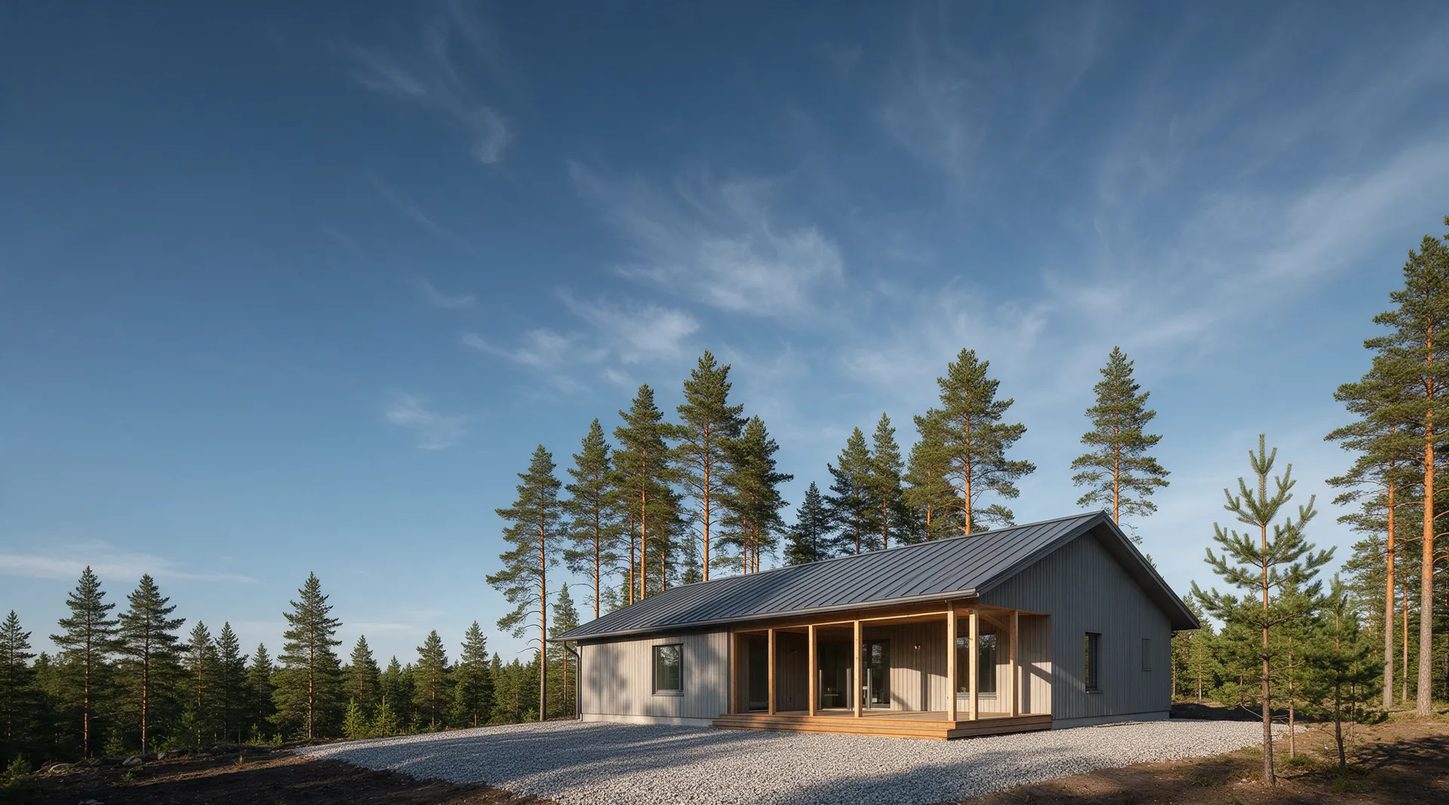
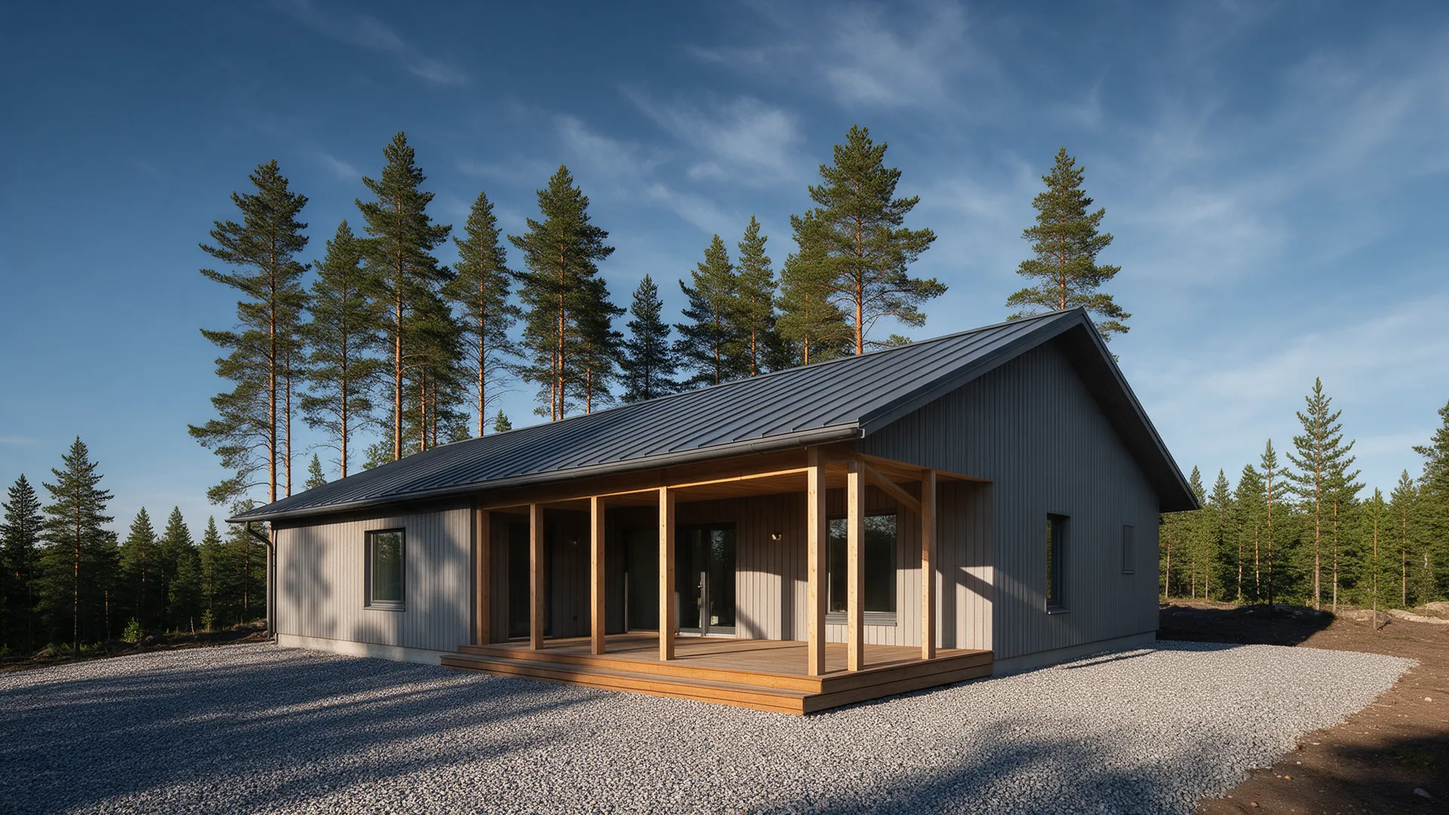
Портфолио: дом крупно наверху, новый каркас, акт приёмки вместо Айзека, метки убраны

diff --git a/index.html b/index.html
@@ -5,7 +5,7 @@
 <meta name="robots" content="noindex, nofollow" data-publish>
 <meta name="viewport" content="width=device-width, initial-scale=1, viewport-fit=cover">
 <title>Свой дом · частные дома по этапам</title>
-<meta name="description" content="Строительство частных домов в {{город}}: пять этапов, смета в договоре, оплата после приёмки каждого этапа по акту.">
+<meta name="description" content="Строительство частных домов в Петербурге и Ленобласти: пять этапов, смета в договоре, оплата после приёмки каждого этапа по акту.">
 <link rel="preconnect" href="https://fonts.googleapis.com">
 <link rel="preconnect" href="https://fonts.gstatic.com" crossorigin>
 <link href="https://fonts.googleapis.com/css2?family=Geologica:wght@600;700&family=IBM+Plex+Sans:wght@400;500;600&display=swap" rel="stylesheet">
@@ -150,7 +150,7 @@
   /* окантовка текста титула цветом фона: заголовок читается и поверх светлого тумана на фото */
   .title__body .v-label, .title__body h1, .title__body .v-lede { text-shadow: 0 0 1px rgb(27 31 35 / .9), 0 0 10px rgb(27 31 35 / .75), 0 0 24px rgb(27 31 35 / .55); }
   /* короткий телефон: фото выше, чтобы меньше заходило под заголовок */
-  @media (max-width: 600px) and (max-height: 760px) { .cover__stack { top: -26svh; } }
+  @media (max-width: 600px) and (max-height: 760px) { .cover__stack { top: -20svh; } }
   @media (max-width: 860px) { .title__body .v-label { display: inline-block; background: rgb(27 31 35 / .9); padding: .2em .5em; margin-left: -.5em; border-radius: var(--v-radius); } }
   /* ноутбук: экран низкий, титул ужимаем, чтобы кнопка и цена остались над сгибом */
   @media (min-width: 861px) and (max-height: 840px) {
@@ -163,6 +163,15 @@
     .cover .title { padding-block: var(--v-4) var(--v-3); }
     .title__head { padding-bottom: var(--v-3); }
     .title__foot { padding-top: var(--v-3); }
+  }
+  /* компьютер, кадр «дом крупно»: заголовок вверху, в небе, кнопка внизу, на щебне; дом посередине открыт */
+  @media (min-width: 861px) {
+    .title__body { flex: 1; display: flex; flex-direction: column; max-width: none; }
+    .title__body h1 { max-width: 20ch; font-size: clamp(2.2rem, 1rem + 3.2vw, 4rem); }
+    .title__cta { margin-top: auto; }
+    .cover__scrim { background:
+      linear-gradient(to bottom, rgb(27 31 35 / .72) 0%, rgb(27 31 35 / .35) 30%, rgb(27 31 35 / 0) 46%),
+      linear-gradient(to top, rgb(27 31 35 / .55) 0%, rgb(27 31 35 / 0) 26%); }
   }
 
   /* ---- оглавление: кинолента этапов -------------------------------------------- */
@@ -216,7 +225,7 @@
   .spread__fig .fig img { width: 100%; height: 100%; object-fit: cover; }
   .spread__fig figcaption { display: grid; grid-template-columns: auto 1fr; gap: var(--v-3); padding-top: var(--v-3); font-size: var(--v-t-sm); color: var(--v-ink-soft); max-width: 52ch; }
   .spread__fig figcaption b { font-family: var(--v-font-display); font-weight: 600; color: var(--v-accent); font-variant-numeric: tabular-nums; }
-  /* «Сдан!»: фото приёмщика под домом, рядом крупная отметка и подпись */
+  /* «Сдан!»: планшет с актом приёмки под домом, рядом крупная отметка и подпись */
   .spread__fig figcaption.accepted { grid-template-columns: minmax(0, 34%) 1fr; align-items: center; gap: var(--v-4); max-width: none; padding-top: var(--v-4); }
   .accepted img { display: block; width: 100%; height: auto; aspect-ratio: 1; object-fit: cover; border-radius: var(--v-radius); outline: 1px solid var(--v-hair-strong); outline-offset: -1px; }
   .accepted__text { display: grid; gap: var(--v-2); }
@@ -402,11 +411,11 @@
     <span class="folio__dot" style="top:50%"><span><b>03</b>Кровля</span></span>
     <span class="folio__dot" style="top:75%"><span><b>04</b>Отделка</span></span>
     <span class="folio__dot" style="top:100%"><span><b>05</b>Сдача по акту</span></span>
-    <a class="folio__cta" href="{{ссылка-расчёта}}">Рассчитать смету</a>
+    <a class="folio__cta" href="#raschet">Рассчитать смету</a>
   </nav>
   <div class="folio-m" id="folioM">
     <span id="folioMText" aria-hidden="true"><b>01</b> · Фундамент</span>
-    <a href="{{ссылка-расчёта}}">Рассчитать смету</a>
+    <a href="#raschet">Рассчитать смету</a>
     <span class="folio-m__bar" id="folioMBar" aria-hidden="true"></span>
   </div>
 
@@ -417,8 +426,8 @@
     <section class="cover" id="cover" data-v-act="pin" data-v-span="2.6" aria-label="Титульный лист">
       <div data-v-stage>
         <div class="cover__stack">
-          <img class="cover__img" src="assets/stage-frame.webp" alt="Каркас частного дома на фундаменте и щебёночной подушке, участок среди сосен" width="1920" height="1067" fetchpriority="high" decoding="async">
-          <img class="cover__img" src="assets/cover.webp" alt="Тот же участок с тем же ракурсом: готовый дом с террасой" width="1920" height="1067" decoding="async" data-v-reveal="left" data-v-reveal-at="0.15 0.55">
+          <img class="cover__img" src="assets/stage-frame.webp" alt="Каркас частного дома на фундаменте и щебёночной подушке, участок среди сосен" width="1920" height="1080" fetchpriority="high" decoding="async">
+          <img class="cover__img" src="assets/cover.webp" alt="Тот же участок с тем же ракурсом: готовый дом с террасой" width="1920" height="1080" decoding="async" data-v-reveal="left" data-v-reveal-at="0.15 0.55">
         </div>
         <div class="cover__scrim" aria-hidden="true"></div>
         <div class="v-wrap title">
@@ -428,16 +437,16 @@
           </div>
           <div class="title__body" data-v-cue="0 1 0 0">
             <span class="v-label">Частные дома · по этапам</span>
-            <h1 class="v-display">Дома под ключ в {{город}} – смета в договоре</h1>
+            <h1 class="v-display">Дома под ключ в СПб и Ленобласти – смета в договоре</h1>
             <p class="v-lede">Под ключ – это пять этапов от фундамента до сдачи, по каждому акт и фотоотчёт. <b>Смета фиксируется в договоре</b>, оплата этапа после приёмки.</p>
             <div class="title__cta">
-              <!-- {{ссылка-расчёта}}: ссылка на форму расчёта (в Тильде #popup:smeta) или мессенджер. Одна и та же во всех кнопках -->
-              <a class="v-btn" href="{{ссылка-расчёта}}">Рассчитать смету</a>
+              <!-- #raschet: ссылка на форму расчёта (в Тильде #popup:smeta) или мессенджер. Одна и та же во всех кнопках -->
+              <a class="v-btn" href="#raschet">Рассчитать смету</a>
               <p class="title__price">Цена за м² по типовому проекту – <b>уточнить</b>. <span>Точная сумма в смете, ответ в течение рабочего дня.</span></p>
             </div>
           </div>
           <div class="title__foot">
-            <span><b>0.1</b>Стройка по этапам · {{город}}</span>
+            <span><b>0.1</b>Стройка по этапам · Петербург и Ленобласть</span>
             <p class="cover__state">
               <span class="is-on"><i>Один ракурс</i>Каркас → дом</span>
             </p>
@@ -620,10 +629,10 @@
         <div class="spread spread--flip">
           <figure class="spread__fig" data-v-reveal="right" data-v-reveal-at="0.1 0.42">
             <!-- заменить на фото реального объекта в день сдачи -->
-            <div class="fig"><div data-v-parallax="0.4"><img src="assets/house.webp" alt="Готовый каркасный дом с террасой на щебёночной подушке среди сосен" width="1600" height="889" loading="lazy" decoding="async"></div></div>
-            <!-- под домом: приёмщик показывает «принято» -->
+            <div class="fig"><div data-v-parallax="0.4"><img src="assets/house-far.webp" alt="Готовый каркасный дом с террасой на щебёночной подушке среди сосен" width="1600" height="900" loading="lazy" decoding="async"></div></div>
+            <!-- под домом: акт приёмки, все этапы отмечены «принято» -->
             <figcaption class="accepted">
-              <img src="assets/isaac.webp" alt="Приёмщик в броне показывает большой палец: дом сдан" width="720" height="720" loading="lazy" decoding="async">
+              <img src="assets/akt.webp" alt="Планшет с актом приёмки: полы, окна, водопровод, кровля – принято" width="720" height="720" loading="lazy" decoding="async">
               <span class="accepted__text"><strong>Сдан!</strong><span><b>5.1</b> Дом с террасой в день сдачи. Финальный обход, папка документов, ключи.</span></span>
             </figcaption>
           </figure>
@@ -639,30 +648,16 @@
           </div>
         </div>
 
-        <!-- Построено: слоты под фото реальных объектов. Вместо .fig--slot вставить
-             <div class="fig"><img src="{{объект 1 фото}}" alt="{{объект 1}}" width="1200" height="900" loading="lazy"></div>
-             Подпись {{объект 1}}: тип и размер, район, месяц и год сдачи, срок по договору. Например: «Дом 8×9 с террасой · сдан в июле · 74 дня по договору» -->
-        <div class="built" data-v-in data-v-stagger="80">
-          <div class="built__head">
-            <span class="v-label">Построено</span>
-            <p>Настоящие объекты, без рендеров: тип и размер, когда сдали и сколько дней это заняло по договору.</p>
-          </div>
-          <ul>
-            <li><figure><div class="fig fig--slot" role="img" aria-label="{{объект 1 фото}}"><span>{{объект 1 фото}}</span></div><figcaption><b>5.2</b><span>{{объект 1}}</span></figcaption></figure></li>
-            <li><figure><div class="fig fig--slot" role="img" aria-label="{{объект 2 фото}}"><span>{{объект 2 фото}}</span></div><figcaption><b>5.3</b><span>{{объект 2}}</span></figcaption></figure></li>
-            <li><figure><div class="fig fig--slot" role="img" aria-label="{{объект 3 фото}}"><span>{{объект 3 фото}}</span></div><figcaption><b>5.4</b><span>{{объект 3}}</span></figcaption></figure></li>
-          </ul>
-        </div>
       </div>
     </section>
 
     <!-- ПОВТОР КНОПКИ -->
     <section class="midcta" data-v-act="flow" aria-label="Рассчитать смету">
       <div class="v-wrap" data-v-in data-v-stagger="70">
-        <p>Пять этапов прочитали. Дальше отзывы и состав сметы, но считать можно уже сейчас: цена за м² по типовому проекту – <b>уточнить</b>.</p>
+        <p>Пять этапов прочитали. Дальше состав сметы, но считать можно уже сейчас: цена за м² по типовому проекту – <b>уточнить</b>.</p>
         <div class="midcta__side">
           <span>Ответ в течение рабочего дня, с разбивкой по пяти этапам</span>
-          <a class="v-btn" href="{{ссылка-расчёта}}">Рассчитать смету</a>
+          <a class="v-btn" href="#raschet">Рассчитать смету</a>
         </div>
       </div>
     </section>
@@ -678,13 +673,13 @@
             <p>Смета – это приложение к договору. В ней позиции с марками материалов, объёмами и ценой, а не «строительство дома, одна штука». Итог фиксируется, меняется только допсоглашением по вашей инициативе.</p>
           </div>
           <ul class="lines" data-v-in data-v-stagger="50">
-            <li><span>01</span><h3>Выезд на участок и обмер</h3><p>Грунт, уклон, подъезд для техники. {{условия выезда}}.</p></li>
+            <li><span>01</span><h3>Выезд на участок и обмер</h3><p>Грунт, уклон, подъезд для техники.</p></li>
             <li><span>02</span><h3>Проект и спецификация</h3><p>Планировки, разрезы, узлы, ведомость материалов. По вашему проекту или по типовому с изменениями.</p></li>
             <li><span>03</span><h3>Материалы с марками и сечениями</h3><p>Брус камерной сушки, OSB-3, утеплитель, мембраны, металлочерепица, окна: марка, толщина, объём.</p></li>
             <li><span>04</span><h3>Работы по пяти этапам</h3><p>Каждый этап отдельной суммой. Видно, за что платите после каждого акта.</p></li>
             <li><span>05</span><h3>Доставка и разгрузка</h3><p>Материалы на участок, вывоз строительного мусора после сдачи.</p></li>
             <li><span>06</span><h3>Инженерия</h3><p>Электрика, вода, отопление, вентиляция: по проекту, с паспортами на оборудование.</p></li>
-            <li><span>07</span><h3>Что не входит и что не строим</h3><p>Отдельным списком: подключение к сетям, ландшафт, мебель. Не берём: {{что не строим}}. Чтобы сюрпризов не было ни у вас, ни у нас.</p></li>
+            <li><span>07</span><h3>Что не входит и что не строим</h3><p>Отдельным списком: подключение к сетям, ландшафт, мебель. Чтобы сюрпризов не было ни у вас, ни у нас.</p></li>
             <li><span>08</span><h3>Ориентир по типовым проектам</h3><p>Дом 6×6 – <b>уточнить</b>, дом 8×8 – <b>уточнить</b>, дом 10×10 – <b>уточнить</b>. Точная сумма – в смете по вашему участку и проекту.</p></li>
           </ul>
         </div>
@@ -705,30 +700,22 @@
             <p class="colophon__price">Цена за м² по типовому проекту – <b>уточнить</b>. <span>Точная сумма в смете: по вашему участку, проекту и материалам, с разбивкой по пяти этапам.</span></p>
             <ul class="lines" aria-label="Как начинаем">
               <li><span>01</span><h3>Заявка или звонок</h3><p>Перезвоним в рабочий день, уточним участок, размеры и что уже есть: проект, эскиз или только идея.</p></li>
-              <li><span>02</span><h3>Выезд на участок</h3><p>Смотрим грунт, уклон, подъезд. {{условия выезда}}.</p></li>
+              <li><span>02</span><h3>Выезд на участок</h3><p>Смотрим грунт, уклон, подъезд. Дату выезда согласуем по телефону.</p></li>
               <li><span>03</span><h3>Смета по пяти этапам</h3><p>За рабочий день после выезда. Каждый этап отдельной суммой, материалы с марками.</p></li>
               <li><span>04</span><h3>Договор</h3><p>Смета в приложении, сроки в календарных днях, оплата каждого этапа после акта.</p></li>
             </ul>
-            <p class="colophon__season"><b>Сезон {{год}}:</b> фундаменты заливаем до {{дата}}, дальше очередь на следующий сезон.</p>
           </div>
           <div class="colophon__meta" data-v-in data-v-stagger="80">
-            <!-- {{прораб}}: имя и фамилия, {{прораб год}}: с какого года на объектах. Вместо span с текстом вставить
-                 <img src="{{прораб фото}}" alt="{{прораб}}" width="144" height="144" loading="lazy"> -->
-            <div class="crew">
-              <div class="crew__photo" role="img" aria-label="{{прораб фото}}"><span>фото</span></div>
-              <div class="crew__text"><b>{{прораб}}</b><span>прораб, на объектах с {{прораб год}}. Он же принимает этапы вместе с вами.</span></div>
-            </div>
-            <!-- заполнить: в href телефон без пробелов, tel:+7XXXXXXXXXX; в тексте как удобно читать -->
-            <a class="colophon__tel" href="tel:{{телефон}}">{{телефон}}</a>
-            <span>{{адрес}}, {{город}}</span>
-            <p class="colophon__msg"><span>Или напишите:</span> <a href="{{ссылка-telegram}}" rel="noopener">Telegram</a> · <a href="{{ссылка-whatsapp}}" rel="noopener">WhatsApp</a> · <a href="{{ссылка-max}}" rel="noopener">MAX</a></p>
-            <a class="v-btn" href="{{ссылка-расчёта}}">Рассчитать смету</a>
-            <p class="colophon__after">Пришлите проект или размеры участка и дома. Перезвоним, уточним детали и за рабочий день пришлём смету по пяти этапам. Образцы договора, сметы и акта этапа: <a href="{{ссылка-образцы}}" rel="noopener">в PDF</a>.</p>
+            <!-- демо: учебный номер, заменить телефоном заказчика -->
+            <a class="colophon__tel" href="tel:+70000000000">+7 (000) 000-00-00</a>
+            <p class="colophon__msg"><span>Или напишите:</span> <a href="#raschet" rel="noopener">Telegram</a> · <a href="#raschet" rel="noopener">WhatsApp</a></p>
+            <a class="v-btn" href="#raschet">Рассчитать смету</a>
+            <p class="colophon__after">Пришлите проект или размеры участка и дома. Перезвоним, уточним детали и за рабочий день пришлём смету по пяти этапам.</p>
           </div>
         </div>
         <footer class="colophon__foot">
-          <span>Свой дом · строительство частных домов · {{город}}</span>
-          <span>{{юрлицо}} · ИНН {{ИНН}} · <a href="{{ссылка-политика}}" rel="noopener">Политика обработки персональных данных</a></span>
+          <span>Свой дом · строительство частных домов · Петербург и Ленобласть</span>
+          <span>Демо-сайт: название, телефон и цены – примеры</span>
         </footer>
       </div>
     </section>
